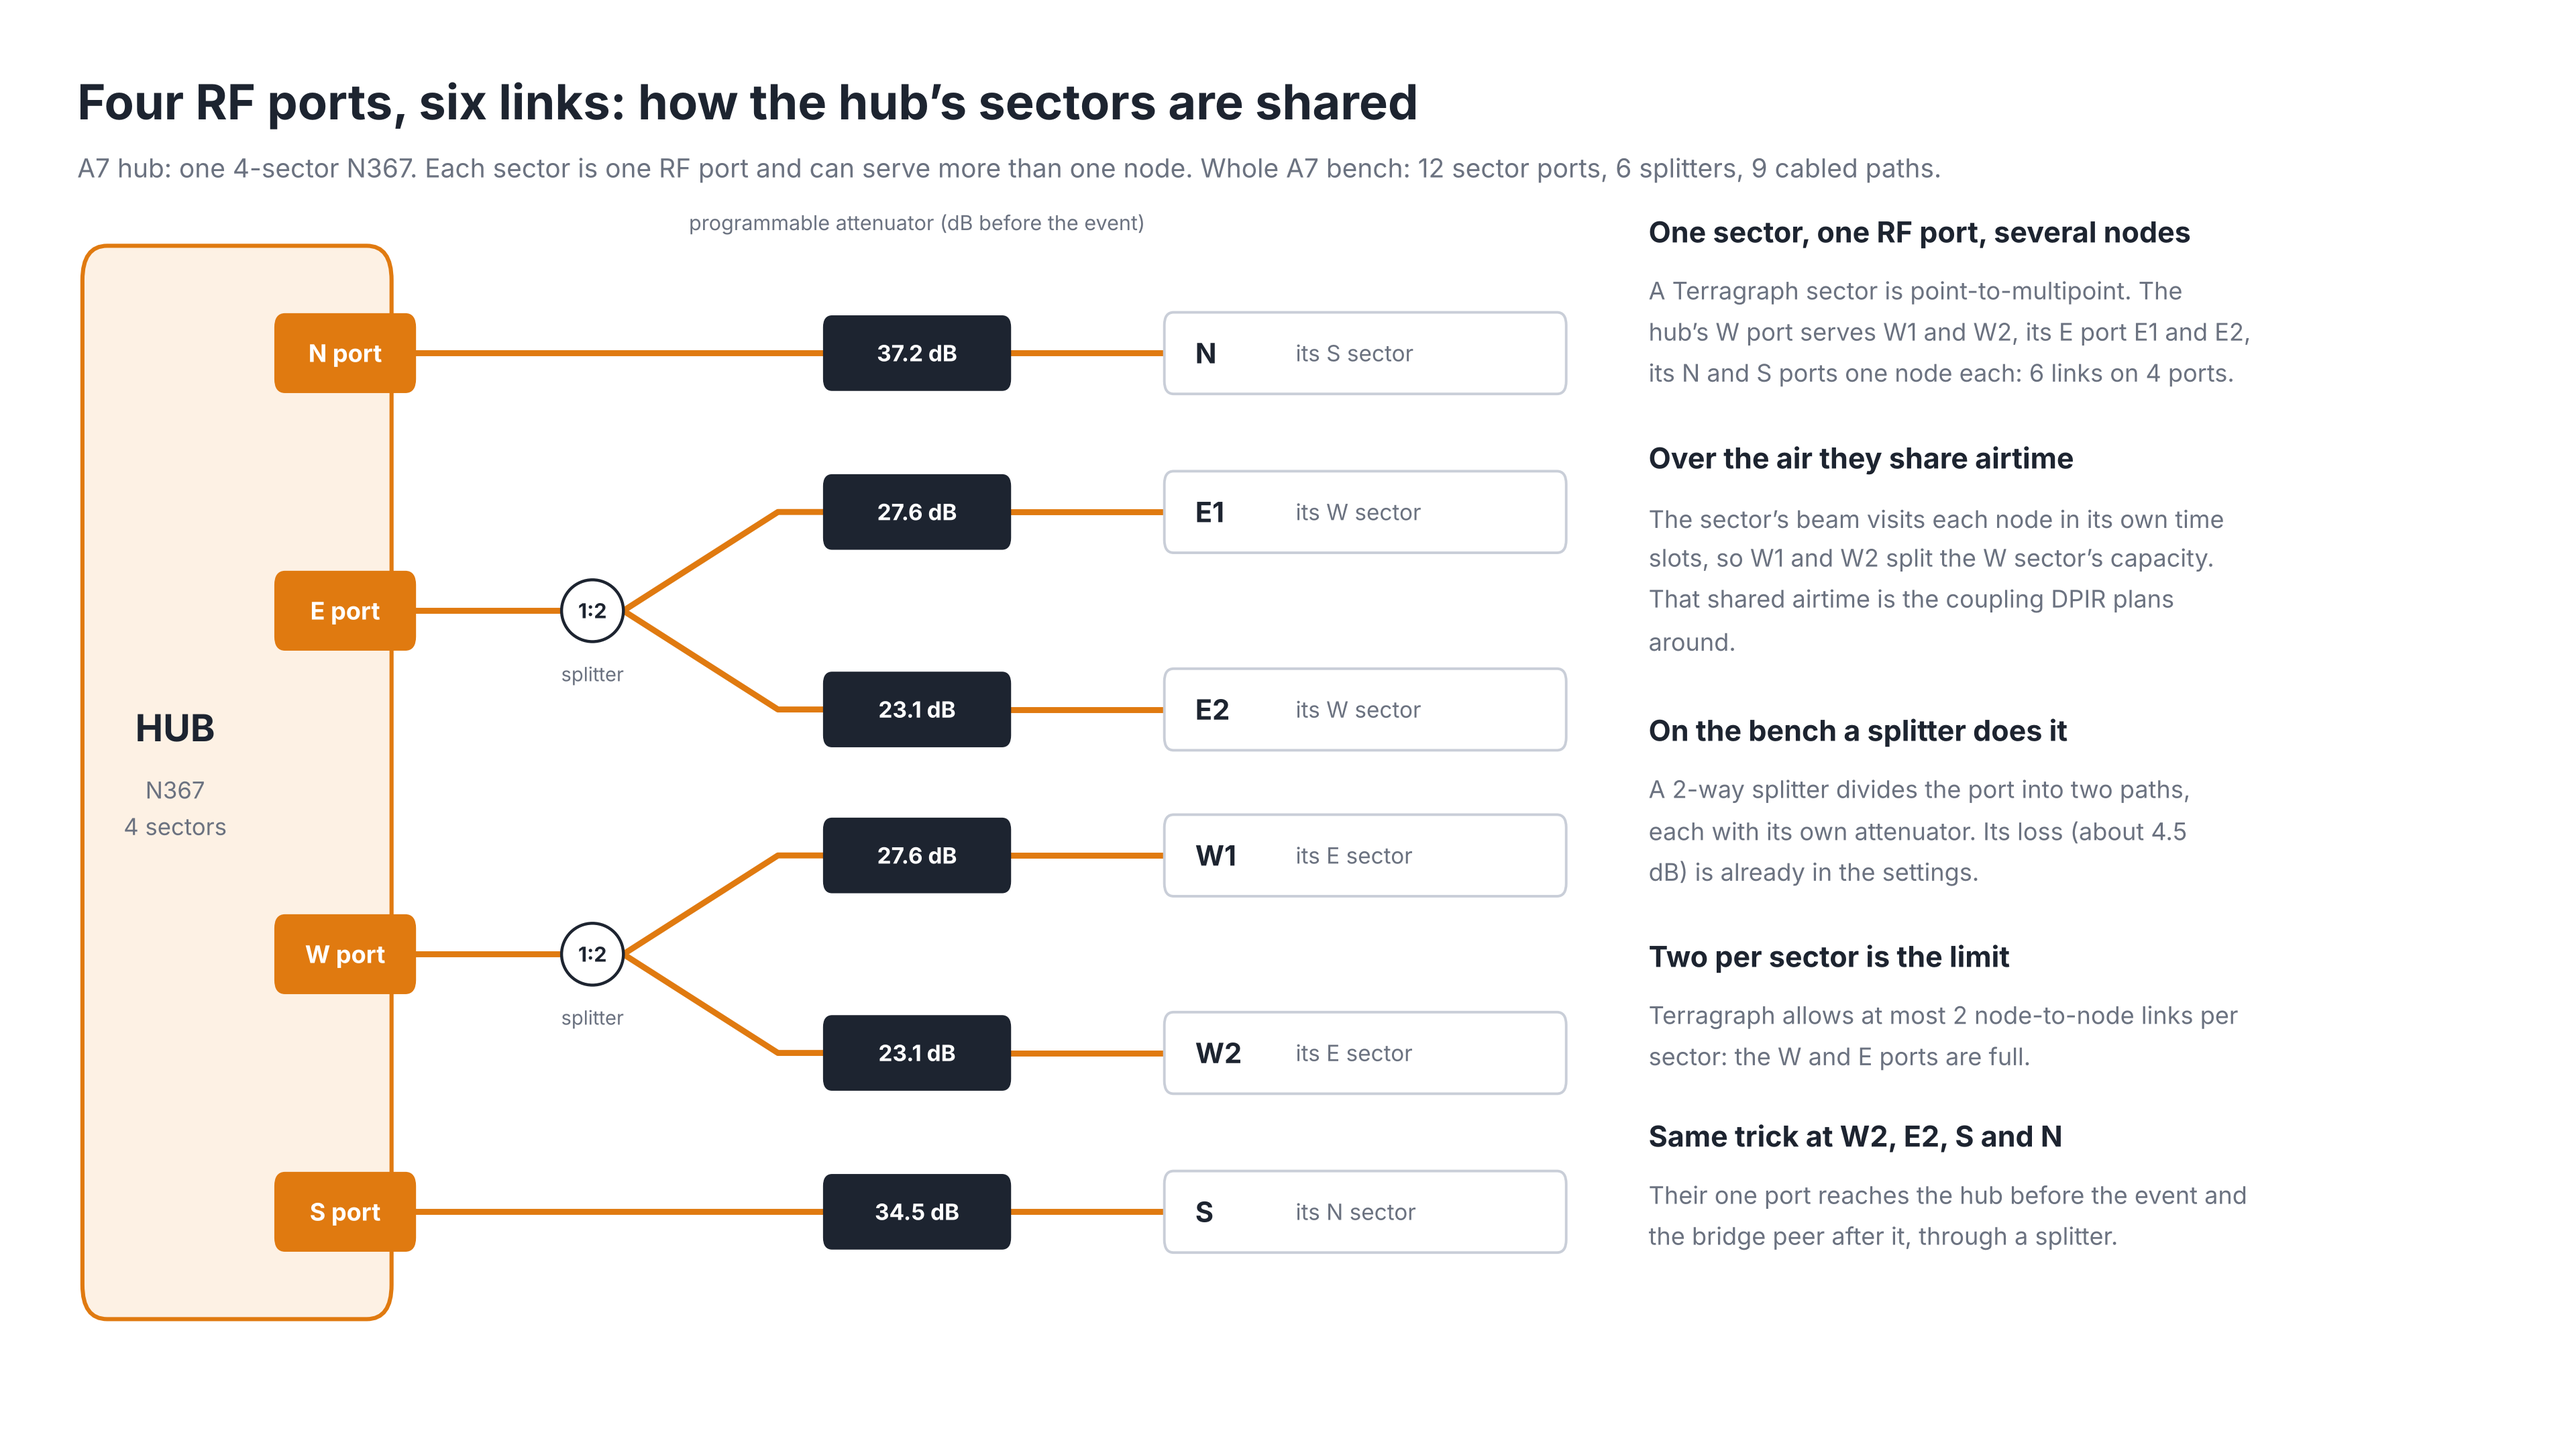
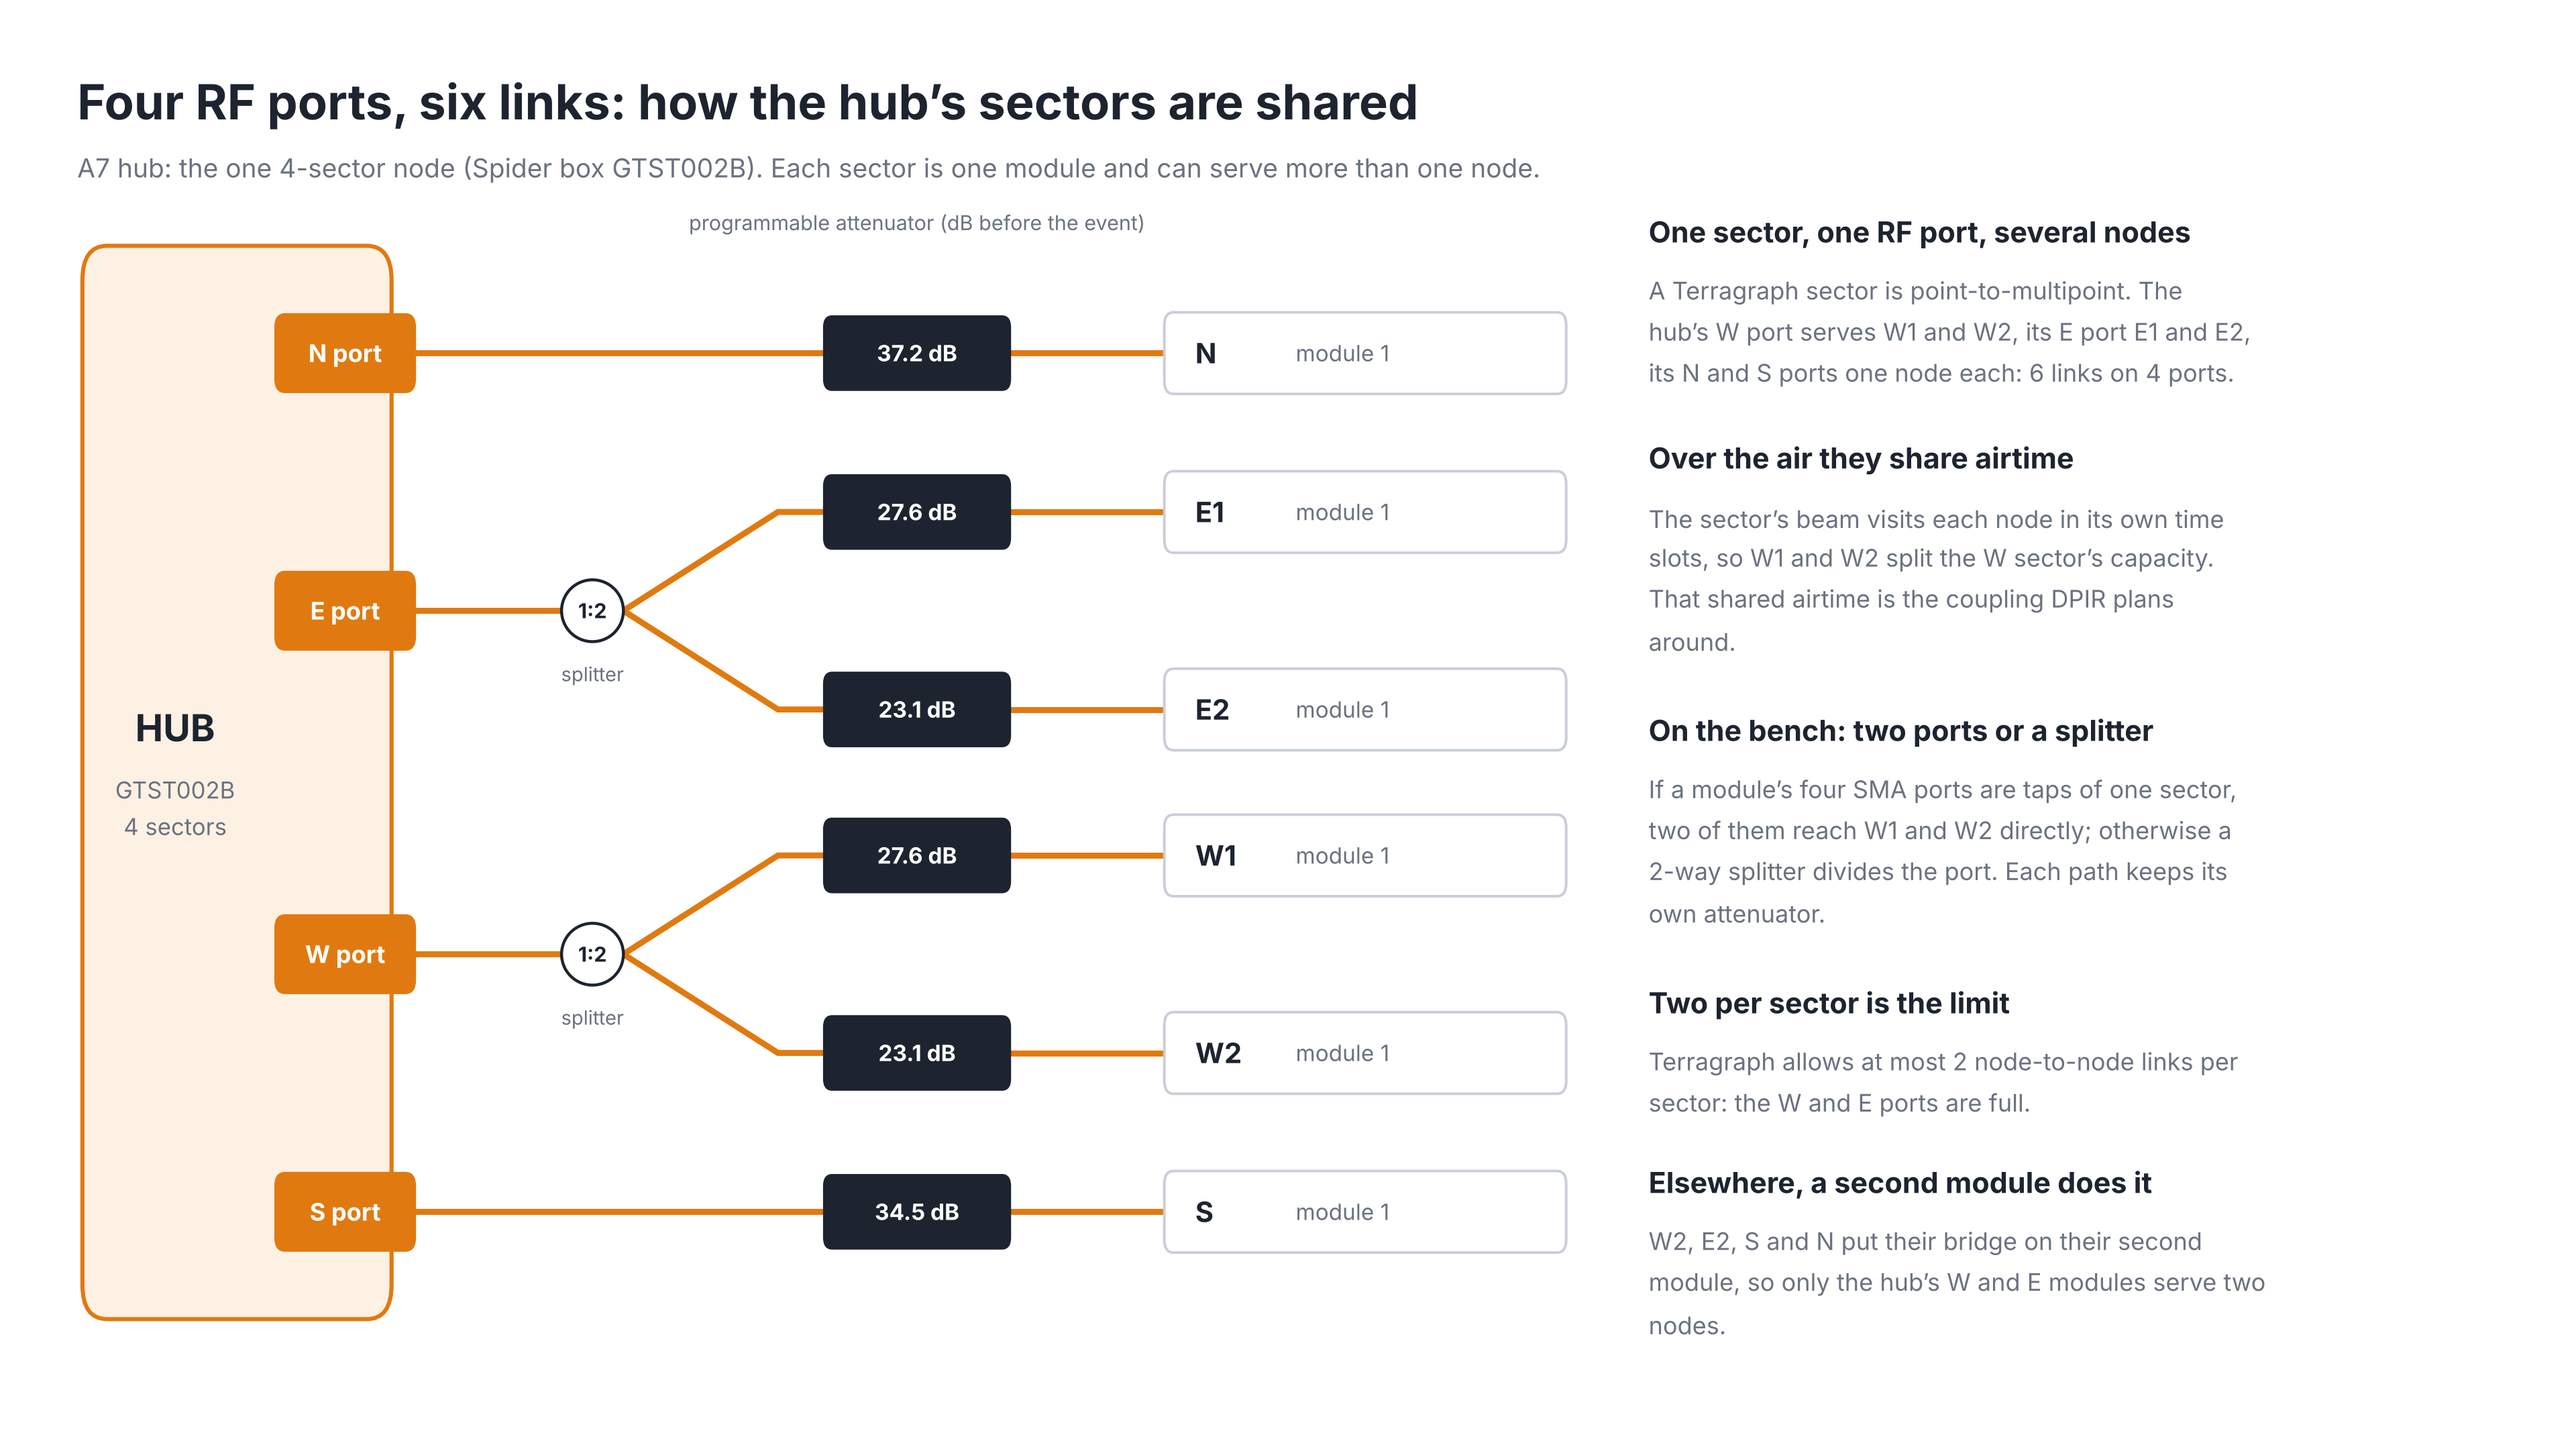
testbed_design: note the delivered Spider boxes; hub diagram for the bench
README records that the kit is four Siklu Spider conducted test boxes
(GTS003 x2, GTST002B, GTST003) with one FATJ0498 module per sector and
SMA ports, and how A7 maps onto them. hub_ports.py now labels the hub as
box GTST002B and describes the bench cabling (two module ports or a
splitter at the hub; bridges on each node's second module).

Claude-Session: https://claude.ai/code/session_01MHekNeWyNAm5hbLWecJEhE

diff --git a/testbed_design/hub_ports.py b/testbed_design/hub_ports.py
@@ -41,9 +41,8 @@ def main(key="A7"):
     fig = plt.figure(figsize=(19.2, 10.8), facecolor="white")
     fig.text(0.03, 0.95, "Four RF ports, six links: how the hub’s sectors are shared", fontsize=26,
              fontweight="bold", color=INK, va="top")
-    fig.text(0.03, 0.895, "A7 hub: one 4-sector N367. Each sector is one RF port and can serve more than one node. "
-             f"Whole A7 bench: {len(ports)} sector ports, {len(junctions)} splitters, {len(paths)} cabled paths.",
-             fontsize=14, color=MUTED, va="top")
+    fig.text(0.03, 0.895, "A7 hub: the one 4-sector node (Spider box GTST002B). Each sector is one module and can serve "
+             "more than one node.", fontsize=14, color=MUTED, va="top")
     ax = fig.add_axes([0.02, 0.06, 0.6, 0.8])
     ax.set_xlim(0, 100)
     ax.set_ylim(0, 54)
@@ -52,7 +51,7 @@ def main(key="A7"):
     # the hub unit and its four ports
     box(ax, 2, 2, 20, 50, "#FDF1E4", TG, lw=2.2, r=1.6)
     ax.text(8, 28.5, "HUB", ha="center", va="bottom", fontsize=20, fontweight="bold", color=INK, zorder=5)
-    ax.text(8, 27.5, "N367\n4 sectors", ha="center", va="top", fontsize=12.5, color=MUTED, zorder=5,
+    ax.text(8, 27.5, "GTST002B\n4 sectors", ha="center", va="top", fontsize=12.5, color=MUTED, zorder=5,
             linespacing=1.3)
     for k, y in PORT_Y.items():
         box(ax, 14.5, y - 1.8, 9, 3.6, TG, TG, r=0.6, z=4)
@@ -83,8 +82,7 @@ def main(key="A7"):
             ax.plot([62, 72], [yy, yy], color=TG, lw=3.2, zorder=2, solid_capstyle="round")
             box(ax, 72, yy - 1.9, 26, 3.8, "#FFFFFF", "#C9CED8", r=0.6, z=4)
             ax.text(74, yy, peer, ha="left", va="center", fontsize=15, fontweight="bold", color=INK, zorder=5)
-            ax.text(80.5, yy, f"its {SEC[peer_sec]} sector", ha="left", va="center", fontsize=12, color=MUTED,
-                    zorder=5)
+            ax.text(80.5, yy, "module 1", ha="left", va="center", fontsize=12, color=MUTED, zorder=5)
     ax.text(56, 52.5, "programmable attenuator (dB before the event)", ha="center", va="bottom", fontsize=11,
             color=MUTED)
 
@@ -98,13 +96,14 @@ def main(key="A7"):
         ("Over the air they share airtime",
          "The sector’s beam visits each node in its own time slots, so W1 and W2 split the W sector’s "
          "capacity. That shared airtime is the coupling DPIR plans around."),
-        ("On the bench a splitter does it",
-         "A 2-way splitter divides the port into two paths, each with its own attenuator. Its loss "
-         "(about 4.5 dB) is already in the settings."),
+        ("On the bench: two ports or a splitter",
+         "If a module’s four SMA ports are taps of one sector, two of them reach W1 and W2 directly; "
+         "otherwise a 2-way splitter divides the port. Each path keeps its own attenuator."),
         ("Two per sector is the limit",
          "Terragraph allows at most 2 node-to-node links per sector: the W and E ports are full."),
-        ("Same trick at W2, E2, S and N",
-         "Their one port reaches the hub before the event and the bridge peer after it, through a splitter."),
+        ("Elsewhere, a second module does it",
+         "W2, E2, S and N put their bridge on their second module, so only the hub’s W and E modules "
+         "serve two nodes."),
     ]
     y = 0.99
     for head, body in pts:
